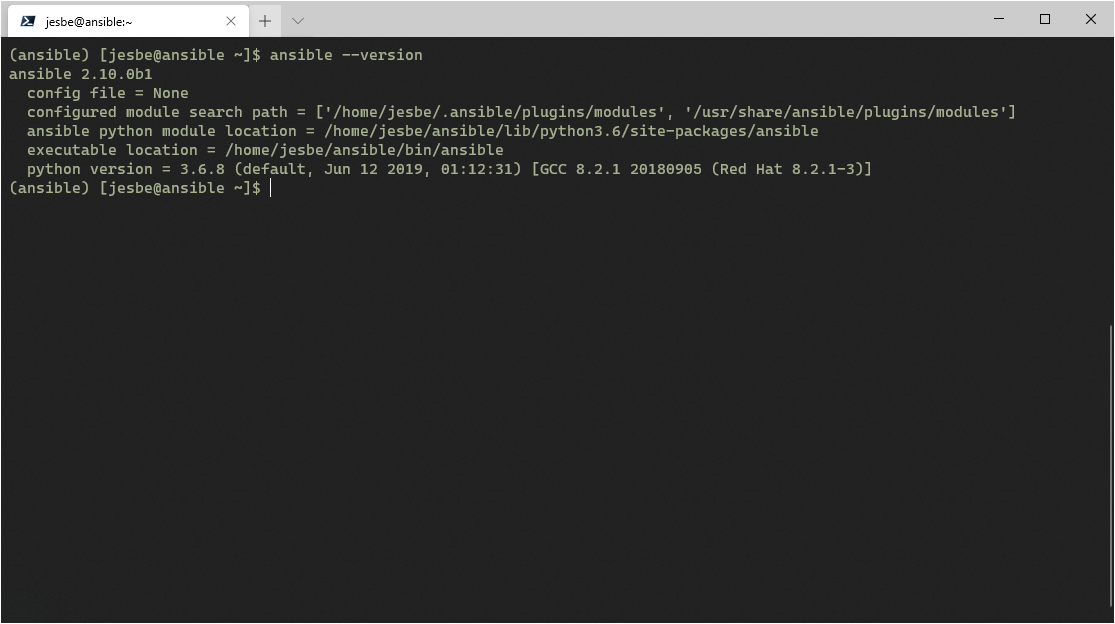
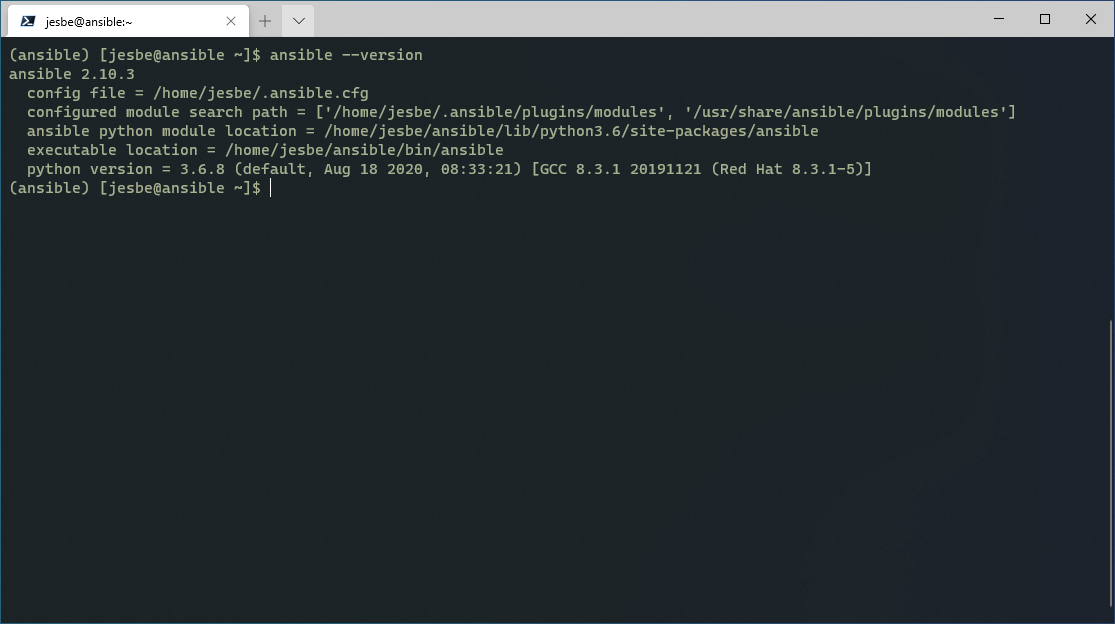
commit updates to lab1,2 and 3

diff --git a/lab03/lab3.md b/lab03/lab3.md
@@ -10,13 +10,11 @@ We will need the servers, ansible, server1, server2 and server3 to be up and run
 
 [ansible docs](https://docs.ansible.com/ansible/2.5/user_guide/playbooks_variables.html)
 
-[ansible tímezone](https://docs.ansible.com/ansible/latest/modules/timezone_module.html)
+[ansible timezone](https://docs.ansible.com/ansible/latest/modules/timezone_module.html)
 
 In the file explorer part of VSCode rigth click on the pane below the "ANSIBLECLASS"
 
 Name it "02_linux.yml"
-
-![Alt text](pics/001_timezone.png?raw=true "playbook in VSCode")
 
 Write the following in the text pane
 
@@ -40,6 +38,8 @@ Save the file
 
 Notice that Git detects the changed file, do a commit add a comment "Variables" and Sync to Git
 
+![Alt text](pics/001_timezone.png?raw=true "playbook in VSCode")
+
 On server ansible do a git pull and run the playbook
 
 __Type:__
@@ -60,8 +60,6 @@ Now lets make a variable with a prompt
 In the file explorer part of VSCode rigth click on the pane below the "ANSIBLECLASS"
 
 Name it "03_linux.yml"
-
-![Alt text](pics/003_vars_prompt.png?raw=true "playbook in VSCode")
 
 Write the following in the text pane
 
@@ -87,6 +85,8 @@ Save the file
 
 Notice that Git detects the changed file, do a commit add a comment "Prompt" and Sync to Git
 
+![Alt text](pics/003_vars_prompt.png?raw=true "playbook in VSCode")
+
 On server ansible do a git pull and run the playbook
 
 __Type:__
@@ -104,15 +104,11 @@ Type: Etc/UTC with - lower and upper case
 
 ![Alt text](pics/004_vars_prompt_run.png?raw=true "run playbook prompt")
 
-Lets try the same scenario with a vars file 
+Lets try the same scenario with a vars file
 
 In the file explorer part of VSCode rigth click on the pane below the "ANSIBLECLASS"
 
 Name it "linux_vars.yml"
-
-![Alt text](pics/05_vars_file.png?raw=true "playbook in VSCode")
-
-![Alt text](pics/06_vars_file2.png?raw=true "playbook in VSCode")
 
 Write the following in the text pane
 
@@ -124,7 +120,7 @@ timezone: "Europe/Copenhagen"
 
 ```
 
-![Alt text](pics/07_vars_file_play.png?raw=true "playbook in VSCode")
+![Alt text](pics/06_vars_file2.png?raw=true "playbook in VSCode")
 
 And change the 03_linux.yml to use the vars file
 
@@ -147,6 +143,8 @@ __Type:__
 Save the file
 
 Notice that Git detects the changed file, do a commit add a comment "Vars file" and Sync to Git
+
+![Alt text](pics/07_vars_file_play.png?raw=true "playbook in VSCode")
 
 On server ansible do a git pull and run the playbook
 

diff --git a/lab02/lab2.md b/lab02/lab2.md
@@ -22,6 +22,8 @@ Get extention "Ansible" from Microsoft
 
 Get extention "indent one space" from Alexander
 
+Get extention "Trailing Spaces" from Shardul Mahadik
+
 ![Alt text](pics/003_vscode_install_ansible.png?raw=true "Install extention in VSCode")
 
 Download and install GIT [Download Git](https://git-scm.com/downloads)
@@ -53,6 +55,18 @@ Your new repository is created with an empty README.md file
 ![Alt text](pics/008_newrepo_created_github.png?raw=true "New Repo")
 
 ## Task 2: Clone Git Repository
+
+We need to configure git with a Name and email to track the changes you are making
+
+Open Powershell on your desktop
+
+```bash
+git config --global user.name "Full Name"
+git config --glibal user.email "email@address.com"
+git config --list
+```
+
+![Alt text](pics/009_git_config.png?raw=true "Git Config")
 
 We need to create a simple folder structure for keeping our files
 
@@ -117,7 +131,7 @@ Copy this config into the file and save
 
 ![Alt text](pics/014_vscode_add_settings.png?raw=true "add settings.yml")
 
-We don't wont the settings.yml file to be synced with github so we 
+We don't wont the settings.yml file to be synced with github so we add it to .gitignore
 
 ![Alt text](pics/014_vscode_git_ignore.png?raw=true "git ignore")
 
@@ -155,24 +169,9 @@ Now Sync the changes Push/Pull, in the blue bar at the bottom, 0 up, 1 down it w
 
 The first time you will be prompted for github credentials
 
-__NOTE:__
-
-If you get an error stating "You are missing user.name and user.email"
-
-Open Powershell on your desktop
-
-```bash
-cd "to your git directory you are working in"
-
-git config user.name "Full Name"
-git config user.email "email@address.com"
-```
-
-and try again
-
 ![Alt text](pics/019_code_git_sync_login.png?raw=true "git login in VSCode")
 
-Open the Git Hub repository, the 01_linux.yml is now added, note the comment right of the filename
+Open the Git Hub repository, the 01_linux.yml is now added, note the comment next to the filename
 
 ![Alt text](pics/020_github_new.png?raw=true "github new file")
 

diff --git a/lab01/lab1.md b/lab01/lab1.md
@@ -79,7 +79,7 @@ If you need to exit the virtualenv, you type "deactivate"
 __Type:__
 
 ```bash
-pip install ansible==2.10.0a2
+pip install ansible
 ```
 
 ![Alt text](pics/003_install_ansible.png?raw=true "Install Ansible")
@@ -414,7 +414,7 @@ Next Lab
 
 In ansible 2.10 and forward, most modules will be delivered from collections via [Ansible Galaxy](https://galaxy.ansible.com)
 
-[Ansible Galaxy](https://docs.ansible.com/ansible/latest/user_guide/collections_using.html)
+[Ansible Galaxy Docs](https://docs.ansible.com/ansible/latest/user_guide/collections_using.html)
 
 We need to create the roles and collections folder in .ansible
 
@@ -446,13 +446,11 @@ Lets install the ansible Windows Collection, we need it in the next lab
 
 List installed collections after
 
-__Note:__ --pre is appended as 2.10 is still in Beta
-
 __Type:__
 
 ```bash
 
-ansible-galaxy collection install ansible.windows --pre
+ansible-galaxy collection install ansible.windows
 
 ansible-galaxy collection list
 
